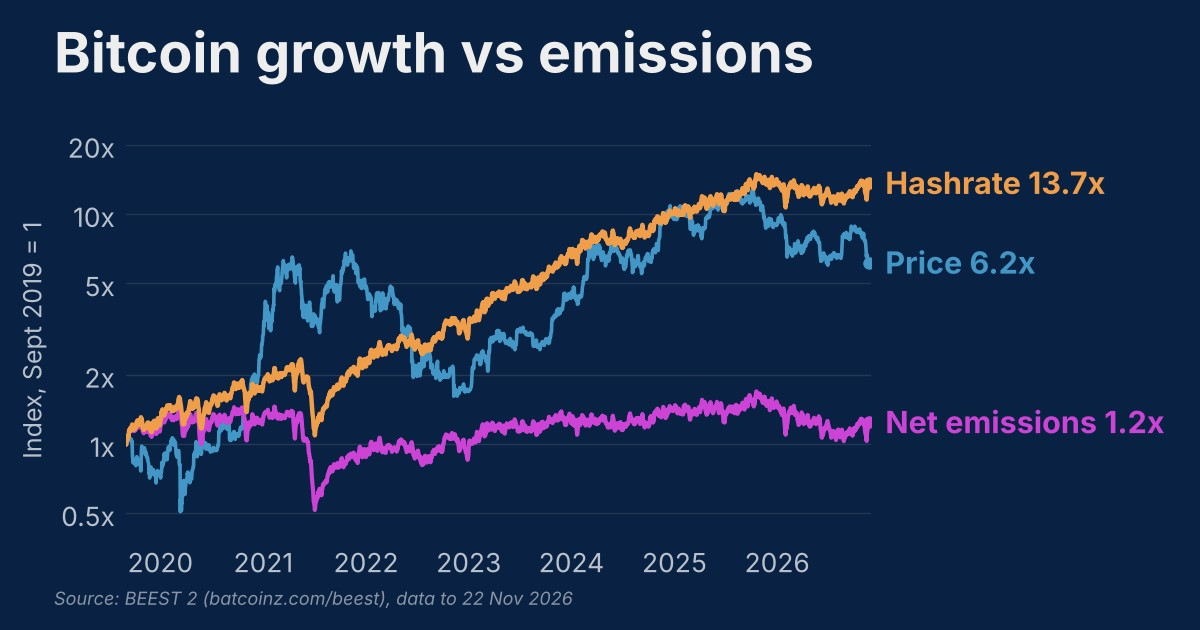
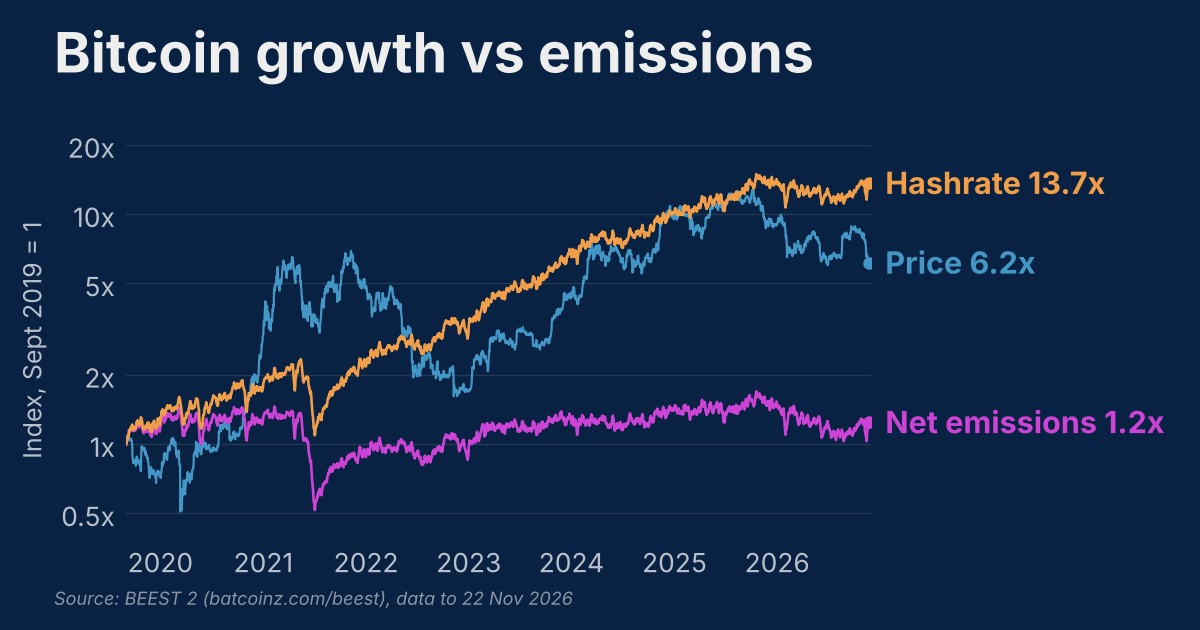
Preview images: serve from beest.batcoinz.com; thinner lines on the growth preview
Claude-Session: https://claude.ai/code/session_01EtHXA5knD94mXs9jpMbPKC

diff --git a/index.html b/index.html
@@ -13,15 +13,15 @@
 <!-- seo:start -->
 <meta property="og:type" content="website">
 <meta property="og:url" content="https://batcoinz.com/beest/">
-<meta property="og:image" content="https://batcoinz.com/beest/og/emissions.jpg">
+<meta property="og:image" content="https://beest.batcoinz.com/og/emissions.jpg">
 <meta property="og:image:width" content="1200">
 <meta property="og:image:height" content="630">
 <meta property="og:image:alt" content="Line chart of Bitcoin network total and net emissions since September 2019">
 <meta name="twitter:card" content="summary_large_image">
 <meta name="twitter:title" content="Bitcoin emissions and energy consumption, live | BEEST 2">
 <meta name="twitter:description" content="Bitcoin's net emissions on 22 Nov 2026: 39.7 MtCO2e a year. Live daily tracker of Bitcoin network emissions and energy consumption (BEEST 2), by Daniel Batten.">
-<meta name="twitter:image" content="https://batcoinz.com/beest/og/emissions.jpg">
-<script type="application/ld+json" id="beest-ld">{"@context": "https://schema.org", "@type": "Dataset", "name": "Bitcoin network emissions (BEEST 2)", "description": "Daily estimate of the Bitcoin network's electricity use and its total, mitigated and net greenhouse gas emissions in MtCO2e a year, from September 2019, built from hashrate, fleet efficiency, the mining energy mix and flare-gas methane mitigation.", "url": "https://batcoinz.com/beest/", "creator": {"@type": "Person", "name": "Daniel Batten", "url": "https://danielbatten.co/"}, "publisher": {"@type": "Organization", "name": "Batcoinz", "url": "https://batcoinz.com/"}, "isAccessibleForFree": true, "temporalCoverage": "2019-09-01/..", "dateModified": "2026-11-22", "variableMeasured": ["Bitcoin network electricity use (TWh a year)", "Total emissions (MtCO2e a year)", "Emissions mitigated by flare-gas mining (MtCO2e a year)", "Net emissions (MtCO2e a year)"], "isPartOf": {"@type": "WebSite", "name": "BEEST 2: Bitcoin Energy & Emissions Sustainability Tracker", "url": "https://batcoinz.com/beest/"}, "isBasedOn": ["https://ccaf.io/", "https://mempool.space/", "https://ember-energy.org/", "https://coinmetrics.io/"], "distribution": [{"@type": "DataDownload", "encodingFormat": "application/json", "contentUrl": "https://batcoinz.com/beest/history.json"}], "image": "https://batcoinz.com/beest/og/emissions.jpg"}</script>
+<meta name="twitter:image" content="https://beest.batcoinz.com/og/emissions.jpg">
+<script type="application/ld+json" id="beest-ld">{"@context": "https://schema.org", "@type": "Dataset", "name": "Bitcoin network emissions (BEEST 2)", "description": "Daily estimate of the Bitcoin network's electricity use and its total, mitigated and net greenhouse gas emissions in MtCO2e a year, from September 2019, built from hashrate, fleet efficiency, the mining energy mix and flare-gas methane mitigation.", "url": "https://batcoinz.com/beest/", "creator": {"@type": "Person", "name": "Daniel Batten", "url": "https://danielbatten.co/"}, "publisher": {"@type": "Organization", "name": "Batcoinz", "url": "https://batcoinz.com/"}, "isAccessibleForFree": true, "temporalCoverage": "2019-09-01/..", "dateModified": "2026-11-22", "variableMeasured": ["Bitcoin network electricity use (TWh a year)", "Total emissions (MtCO2e a year)", "Emissions mitigated by flare-gas mining (MtCO2e a year)", "Net emissions (MtCO2e a year)"], "isPartOf": {"@type": "WebSite", "name": "BEEST 2: Bitcoin Energy & Emissions Sustainability Tracker", "url": "https://batcoinz.com/beest/"}, "isBasedOn": ["https://ccaf.io/", "https://mempool.space/", "https://ember-energy.org/", "https://coinmetrics.io/"], "distribution": [{"@type": "DataDownload", "encodingFormat": "application/json", "contentUrl": "https://batcoinz.com/beest/history.json"}], "image": "https://beest.batcoinz.com/og/emissions.jpg"}</script>
 <!-- seo:end -->
 </head><body>
 <style>

diff --git a/mitigated.html b/mitigated.html
@@ -13,15 +13,15 @@
 <!-- seo:start -->
 <meta property="og:type" content="website">
 <meta property="og:url" content="https://batcoinz.com/beest/mitigated.html">
-<meta property="og:image" content="https://batcoinz.com/beest/og/mitigated.jpg">
+<meta property="og:image" content="https://beest.batcoinz.com/og/mitigated.jpg">
 <meta property="og:image:width" content="1200">
 <meta property="og:image:height" content="630">
 <meta property="og:image:alt" content="Line chart of the share of Bitcoin network emissions mitigated by flare-gas mining since September 2019">
 <meta name="twitter:card" content="summary_large_image">
 <meta name="twitter:title" content="Bitcoin emissions mitigated by flare-gas mining | BEEST 2">
 <meta name="twitter:description" content="On 22 Nov 2026, Bitcoin mining on flare gas canceled out 11.0% of the network's emissions (4.69 MtCO2e a year). Live daily chart from BEEST 2, by Daniel Batten.">
-<meta name="twitter:image" content="https://batcoinz.com/beest/og/mitigated.jpg">
-<script type="application/ld+json" id="beest-ld">{"@context": "https://schema.org", "@type": "Dataset", "name": "Bitcoin emissions mitigated by flare-gas mining (BEEST 2)", "description": "Daily share of the Bitcoin network's total emissions canceled out by methane destroyed at oil-field flare sites by Bitcoin mining, from September 2019.", "url": "https://batcoinz.com/beest/mitigated.html", "creator": {"@type": "Person", "name": "Daniel Batten", "url": "https://danielbatten.co/"}, "publisher": {"@type": "Organization", "name": "Batcoinz", "url": "https://batcoinz.com/"}, "isAccessibleForFree": true, "temporalCoverage": "2019-09-01/..", "dateModified": "2026-11-22", "variableMeasured": ["Share of total emissions mitigated (%)", "Emissions mitigated by flare-gas mining (MtCO2e a year)"], "isPartOf": {"@type": "WebSite", "name": "BEEST 2: Bitcoin Energy & Emissions Sustainability Tracker", "url": "https://batcoinz.com/beest/"}, "isBasedOn": ["https://ccaf.io/", "https://mempool.space/", "https://ember-energy.org/", "https://coinmetrics.io/"], "distribution": [{"@type": "DataDownload", "encodingFormat": "application/json", "contentUrl": "https://batcoinz.com/beest/history.json"}], "image": "https://batcoinz.com/beest/og/mitigated.jpg"}</script>
+<meta name="twitter:image" content="https://beest.batcoinz.com/og/mitigated.jpg">
+<script type="application/ld+json" id="beest-ld">{"@context": "https://schema.org", "@type": "Dataset", "name": "Bitcoin emissions mitigated by flare-gas mining (BEEST 2)", "description": "Daily share of the Bitcoin network's total emissions canceled out by methane destroyed at oil-field flare sites by Bitcoin mining, from September 2019.", "url": "https://batcoinz.com/beest/mitigated.html", "creator": {"@type": "Person", "name": "Daniel Batten", "url": "https://danielbatten.co/"}, "publisher": {"@type": "Organization", "name": "Batcoinz", "url": "https://batcoinz.com/"}, "isAccessibleForFree": true, "temporalCoverage": "2019-09-01/..", "dateModified": "2026-11-22", "variableMeasured": ["Share of total emissions mitigated (%)", "Emissions mitigated by flare-gas mining (MtCO2e a year)"], "isPartOf": {"@type": "WebSite", "name": "BEEST 2: Bitcoin Energy & Emissions Sustainability Tracker", "url": "https://batcoinz.com/beest/"}, "isBasedOn": ["https://ccaf.io/", "https://mempool.space/", "https://ember-energy.org/", "https://coinmetrics.io/"], "distribution": [{"@type": "DataDownload", "encodingFormat": "application/json", "contentUrl": "https://batcoinz.com/beest/history.json"}], "image": "https://beest.batcoinz.com/og/mitigated.jpg"}</script>
 <!-- seo:end -->
 </head><body>
 <style>

diff --git a/since-2019.html b/since-2019.html
@@ -10,15 +10,15 @@
 <!-- seo:start -->
 <meta property="og:type" content="website">
 <meta property="og:url" content="https://batcoinz.com/beest/since-2019.html">
-<meta property="og:image" content="https://batcoinz.com/beest/og/growth.jpg">
+<meta property="og:image" content="https://beest.batcoinz.com/og/growth.jpg">
 <meta property="og:image:width" content="1200">
 <meta property="og:image:height" content="630">
 <meta property="og:image:alt" content="Log-scale chart of Bitcoin hashrate, price and net emissions indexed to September 2019">
 <meta name="twitter:card" content="summary_large_image">
 <meta name="twitter:title" content="Bitcoin emissions vs hashrate and price since 2019 | BEEST 2">
 <meta name="twitter:description" content="Since 1 Sep 2019, Bitcoin's hashrate has grown 13.7x and its price 6.2x, while net emissions have stayed statistically static. Live daily chart from BEEST 2.">
-<meta name="twitter:image" content="https://batcoinz.com/beest/og/growth.jpg">
-<script type="application/ld+json" id="beest-ld">{"@context": "https://schema.org", "@type": "Dataset", "name": "Bitcoin hashrate, price and emissions indexed to 2019 (BEEST 2)", "description": "Bitcoin hashrate, BTC price and the network's total and net emissions, each indexed to 1 September 2019, updated daily.", "url": "https://batcoinz.com/beest/since-2019.html", "creator": {"@type": "Person", "name": "Daniel Batten", "url": "https://danielbatten.co/"}, "publisher": {"@type": "Organization", "name": "Batcoinz", "url": "https://batcoinz.com/"}, "isAccessibleForFree": true, "temporalCoverage": "2019-09-01/..", "dateModified": "2026-11-22", "variableMeasured": ["Hashrate, 7-day average (index)", "BTC price (index)", "Net emissions (index)", "Total emissions (index)"], "isPartOf": {"@type": "WebSite", "name": "BEEST 2: Bitcoin Energy & Emissions Sustainability Tracker", "url": "https://batcoinz.com/beest/"}, "isBasedOn": ["https://ccaf.io/", "https://mempool.space/", "https://ember-energy.org/", "https://coinmetrics.io/"], "distribution": [{"@type": "DataDownload", "encodingFormat": "application/json", "contentUrl": "https://batcoinz.com/beest/history.json"}], "image": "https://batcoinz.com/beest/og/growth.jpg"}</script>
+<meta name="twitter:image" content="https://beest.batcoinz.com/og/growth.jpg">
+<script type="application/ld+json" id="beest-ld">{"@context": "https://schema.org", "@type": "Dataset", "name": "Bitcoin hashrate, price and emissions indexed to 2019 (BEEST 2)", "description": "Bitcoin hashrate, BTC price and the network's total and net emissions, each indexed to 1 September 2019, updated daily.", "url": "https://batcoinz.com/beest/since-2019.html", "creator": {"@type": "Person", "name": "Daniel Batten", "url": "https://danielbatten.co/"}, "publisher": {"@type": "Organization", "name": "Batcoinz", "url": "https://batcoinz.com/"}, "isAccessibleForFree": true, "temporalCoverage": "2019-09-01/..", "dateModified": "2026-11-22", "variableMeasured": ["Hashrate, 7-day average (index)", "BTC price (index)", "Net emissions (index)", "Total emissions (index)"], "isPartOf": {"@type": "WebSite", "name": "BEEST 2: Bitcoin Energy & Emissions Sustainability Tracker", "url": "https://batcoinz.com/beest/"}, "isBasedOn": ["https://ccaf.io/", "https://mempool.space/", "https://ember-energy.org/", "https://coinmetrics.io/"], "distribution": [{"@type": "DataDownload", "encodingFormat": "application/json", "contentUrl": "https://batcoinz.com/beest/history.json"}], "image": "https://beest.batcoinz.com/og/growth.jpg"}</script>
 <!-- seo:end -->
 </head><body>
 <style>

diff --git a/intensity.html b/intensity.html
@@ -10,15 +10,15 @@
 <!-- seo:start -->
 <meta property="og:type" content="website">
 <meta property="og:url" content="https://batcoinz.com/beest/intensity.html">
-<meta property="og:image" content="https://batcoinz.com/beest/og/intensity.jpg">
+<meta property="og:image" content="https://beest.batcoinz.com/og/intensity.jpg">
 <meta property="og:image:width" content="1200">
 <meta property="og:image:height" content="630">
 <meta property="og:image:alt" content="Line chart of Bitcoin&#x27;s net carbon intensity against the world grid average since 2019">
 <meta name="twitter:card" content="summary_large_image">
 <meta name="twitter:title" content="Bitcoin carbon intensity, updated daily | BEEST 2">
 <meta name="twitter:description" content="Bitcoin's net carbon intensity on 22 Nov 2026: 222 gCO2e/kWh, down 63% in seven years. Live daily chart from BEEST 2, by Daniel Batten.">
-<meta name="twitter:image" content="https://batcoinz.com/beest/og/intensity.jpg">
-<script type="application/ld+json" id="beest-ld">{"@context": "https://schema.org", "@type": "Dataset", "name": "Bitcoin network carbon intensity (BEEST 2)", "description": "Daily total and net carbon intensity of the electricity used by the Bitcoin network, in gCO2e per kWh, from September 2019.", "url": "https://batcoinz.com/beest/intensity.html", "creator": {"@type": "Person", "name": "Daniel Batten", "url": "https://danielbatten.co/"}, "publisher": {"@type": "Organization", "name": "Batcoinz", "url": "https://batcoinz.com/"}, "isAccessibleForFree": true, "temporalCoverage": "2019-09-01/..", "dateModified": "2026-11-22", "variableMeasured": ["Carbon intensity of the mining energy mix (gCO2e/kWh)", "Net carbon intensity after methane mitigation (gCO2e/kWh)"], "isPartOf": {"@type": "WebSite", "name": "BEEST 2: Bitcoin Energy & Emissions Sustainability Tracker", "url": "https://batcoinz.com/beest/"}, "isBasedOn": ["https://ccaf.io/", "https://mempool.space/", "https://ember-energy.org/", "https://coinmetrics.io/"], "distribution": [{"@type": "DataDownload", "encodingFormat": "application/json", "contentUrl": "https://batcoinz.com/beest/history.json"}], "image": "https://batcoinz.com/beest/og/intensity.jpg"}</script>
+<meta name="twitter:image" content="https://beest.batcoinz.com/og/intensity.jpg">
+<script type="application/ld+json" id="beest-ld">{"@context": "https://schema.org", "@type": "Dataset", "name": "Bitcoin network carbon intensity (BEEST 2)", "description": "Daily total and net carbon intensity of the electricity used by the Bitcoin network, in gCO2e per kWh, from September 2019.", "url": "https://batcoinz.com/beest/intensity.html", "creator": {"@type": "Person", "name": "Daniel Batten", "url": "https://danielbatten.co/"}, "publisher": {"@type": "Organization", "name": "Batcoinz", "url": "https://batcoinz.com/"}, "isAccessibleForFree": true, "temporalCoverage": "2019-09-01/..", "dateModified": "2026-11-22", "variableMeasured": ["Carbon intensity of the mining energy mix (gCO2e/kWh)", "Net carbon intensity after methane mitigation (gCO2e/kWh)"], "isPartOf": {"@type": "WebSite", "name": "BEEST 2: Bitcoin Energy & Emissions Sustainability Tracker", "url": "https://batcoinz.com/beest/"}, "isBasedOn": ["https://ccaf.io/", "https://mempool.space/", "https://ember-energy.org/", "https://coinmetrics.io/"], "distribution": [{"@type": "DataDownload", "encodingFormat": "application/json", "contentUrl": "https://batcoinz.com/beest/history.json"}], "image": "https://beest.batcoinz.com/og/intensity.jpg"}</script>
 <!-- seo:end -->
 </head><body>
 <style>

diff --git a/sustainable.html b/sustainable.html
@@ -13,15 +13,15 @@
 <!-- seo:start -->
 <meta property="og:type" content="website">
 <meta property="og:url" content="https://batcoinz.com/beest/sustainable.html">
-<meta property="og:image" content="https://batcoinz.com/beest/og/sustainable.jpg">
+<meta property="og:image" content="https://beest.batcoinz.com/og/sustainable.jpg">
 <meta property="og:image:width" content="1200">
 <meta property="og:image:height" content="630">
 <meta property="og:image:alt" content="Line chart of the share of Bitcoin mining powered by sustainable energy since September 2019">
 <meta name="twitter:card" content="summary_large_image">
 <meta name="twitter:title" content="Bitcoin sustainable and renewable energy share | BEEST 2">
 <meta name="twitter:description" content="On 22 Nov 2026, 60.6% of Bitcoin mining power came from sustainable sources. Live daily chart from BEEST 2, by Daniel Batten.">
-<meta name="twitter:image" content="https://batcoinz.com/beest/og/sustainable.jpg">
-<script type="application/ld+json" id="beest-ld">{"@context": "https://schema.org", "@type": "Dataset", "name": "Bitcoin mining sustainable energy share (BEEST 2)", "description": "Daily share of Bitcoin mining power from sustainable sources, from September 2019.", "url": "https://batcoinz.com/beest/sustainable.html", "creator": {"@type": "Person", "name": "Daniel Batten", "url": "https://danielbatten.co/"}, "publisher": {"@type": "Organization", "name": "Batcoinz", "url": "https://batcoinz.com/"}, "isAccessibleForFree": true, "temporalCoverage": "2019-09-01/..", "dateModified": "2026-11-22", "variableMeasured": ["Sustainable energy share of mining power (%)"], "isPartOf": {"@type": "WebSite", "name": "BEEST 2: Bitcoin Energy & Emissions Sustainability Tracker", "url": "https://batcoinz.com/beest/"}, "isBasedOn": ["https://ccaf.io/", "https://mempool.space/", "https://ember-energy.org/", "https://coinmetrics.io/"], "distribution": [{"@type": "DataDownload", "encodingFormat": "application/json", "contentUrl": "https://batcoinz.com/beest/history.json"}], "image": "https://batcoinz.com/beest/og/sustainable.jpg"}</script>
+<meta name="twitter:image" content="https://beest.batcoinz.com/og/sustainable.jpg">
+<script type="application/ld+json" id="beest-ld">{"@context": "https://schema.org", "@type": "Dataset", "name": "Bitcoin mining sustainable energy share (BEEST 2)", "description": "Daily share of Bitcoin mining power from sustainable sources, from September 2019.", "url": "https://batcoinz.com/beest/sustainable.html", "creator": {"@type": "Person", "name": "Daniel Batten", "url": "https://danielbatten.co/"}, "publisher": {"@type": "Organization", "name": "Batcoinz", "url": "https://batcoinz.com/"}, "isAccessibleForFree": true, "temporalCoverage": "2019-09-01/..", "dateModified": "2026-11-22", "variableMeasured": ["Sustainable energy share of mining power (%)"], "isPartOf": {"@type": "WebSite", "name": "BEEST 2: Bitcoin Energy & Emissions Sustainability Tracker", "url": "https://batcoinz.com/beest/"}, "isBasedOn": ["https://ccaf.io/", "https://mempool.space/", "https://ember-energy.org/", "https://coinmetrics.io/"], "distribution": [{"@type": "DataDownload", "encodingFormat": "application/json", "contentUrl": "https://batcoinz.com/beest/history.json"}], "image": "https://beest.batcoinz.com/og/sustainable.jpg"}</script>
 <!-- seo:end -->
 </head><body>
 <style>

diff --git a/og/make_previews.py b/og/make_previews.py
@@ -74,7 +74,7 @@ ax.set_yscale('log'); ax.set_ylim(0.4,20)
 ax.yaxis.set_major_locator(matplotlib.ticker.FixedLocator([0.5,1,2,5,10,20]))
 ax.yaxis.set_major_formatter(matplotlib.ticker.FuncFormatter(lambda v,p:f'{v:g}x'))
 ax.yaxis.set_minor_locator(matplotlib.ticker.NullLocator())
-ax.plot(D,P,color=C['price'],lw=2.6); ax.plot(D,N,color=C['net'],lw=3.0); ax.plot(D,H,color=C['hash'],lw=3.2)
+ax.plot(D,P,color=C['price'],lw=1.6); ax.plot(D,N,color=C['net'],lw=1.9); ax.plot(D,H,color=C['hash'],lw=1.9)
 endlabel(ax,last,H[-1],f"Hashrate {H[-1]:.1f}x",C['hash'],fs=22)
 endlabel(ax,last,P[-1],f"Price {P[-1]:.1f}x",C['price'],fs=22)
 endlabel(ax,last,N[-1],f"Net emissions {N[-1]:.1f}x",C['net'],fs=22)
